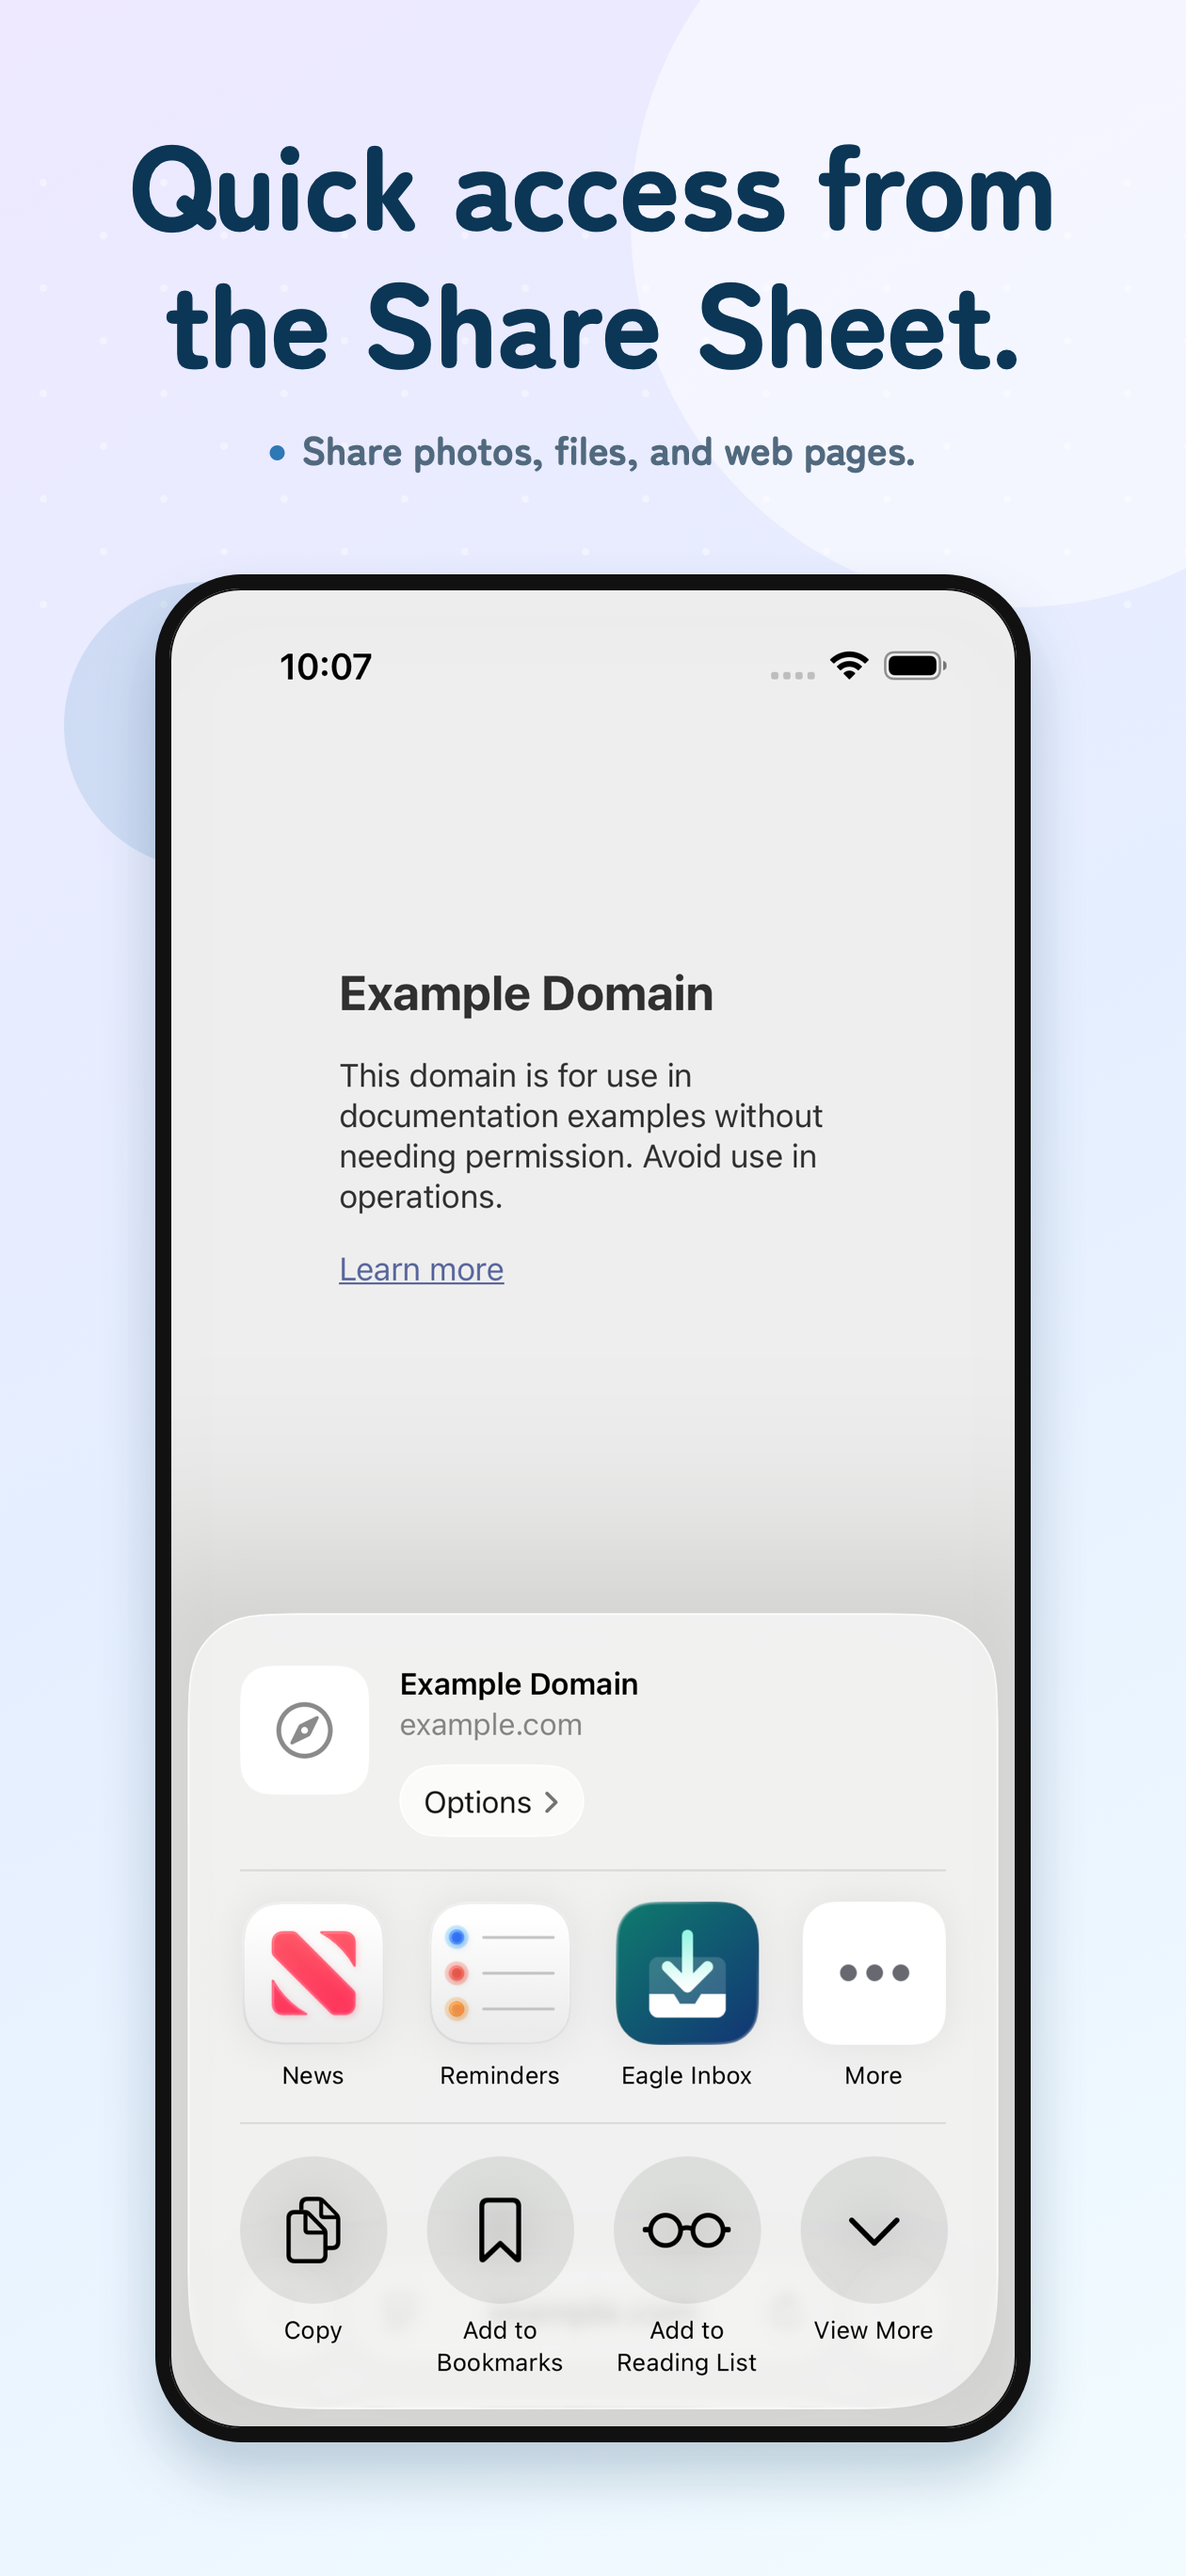
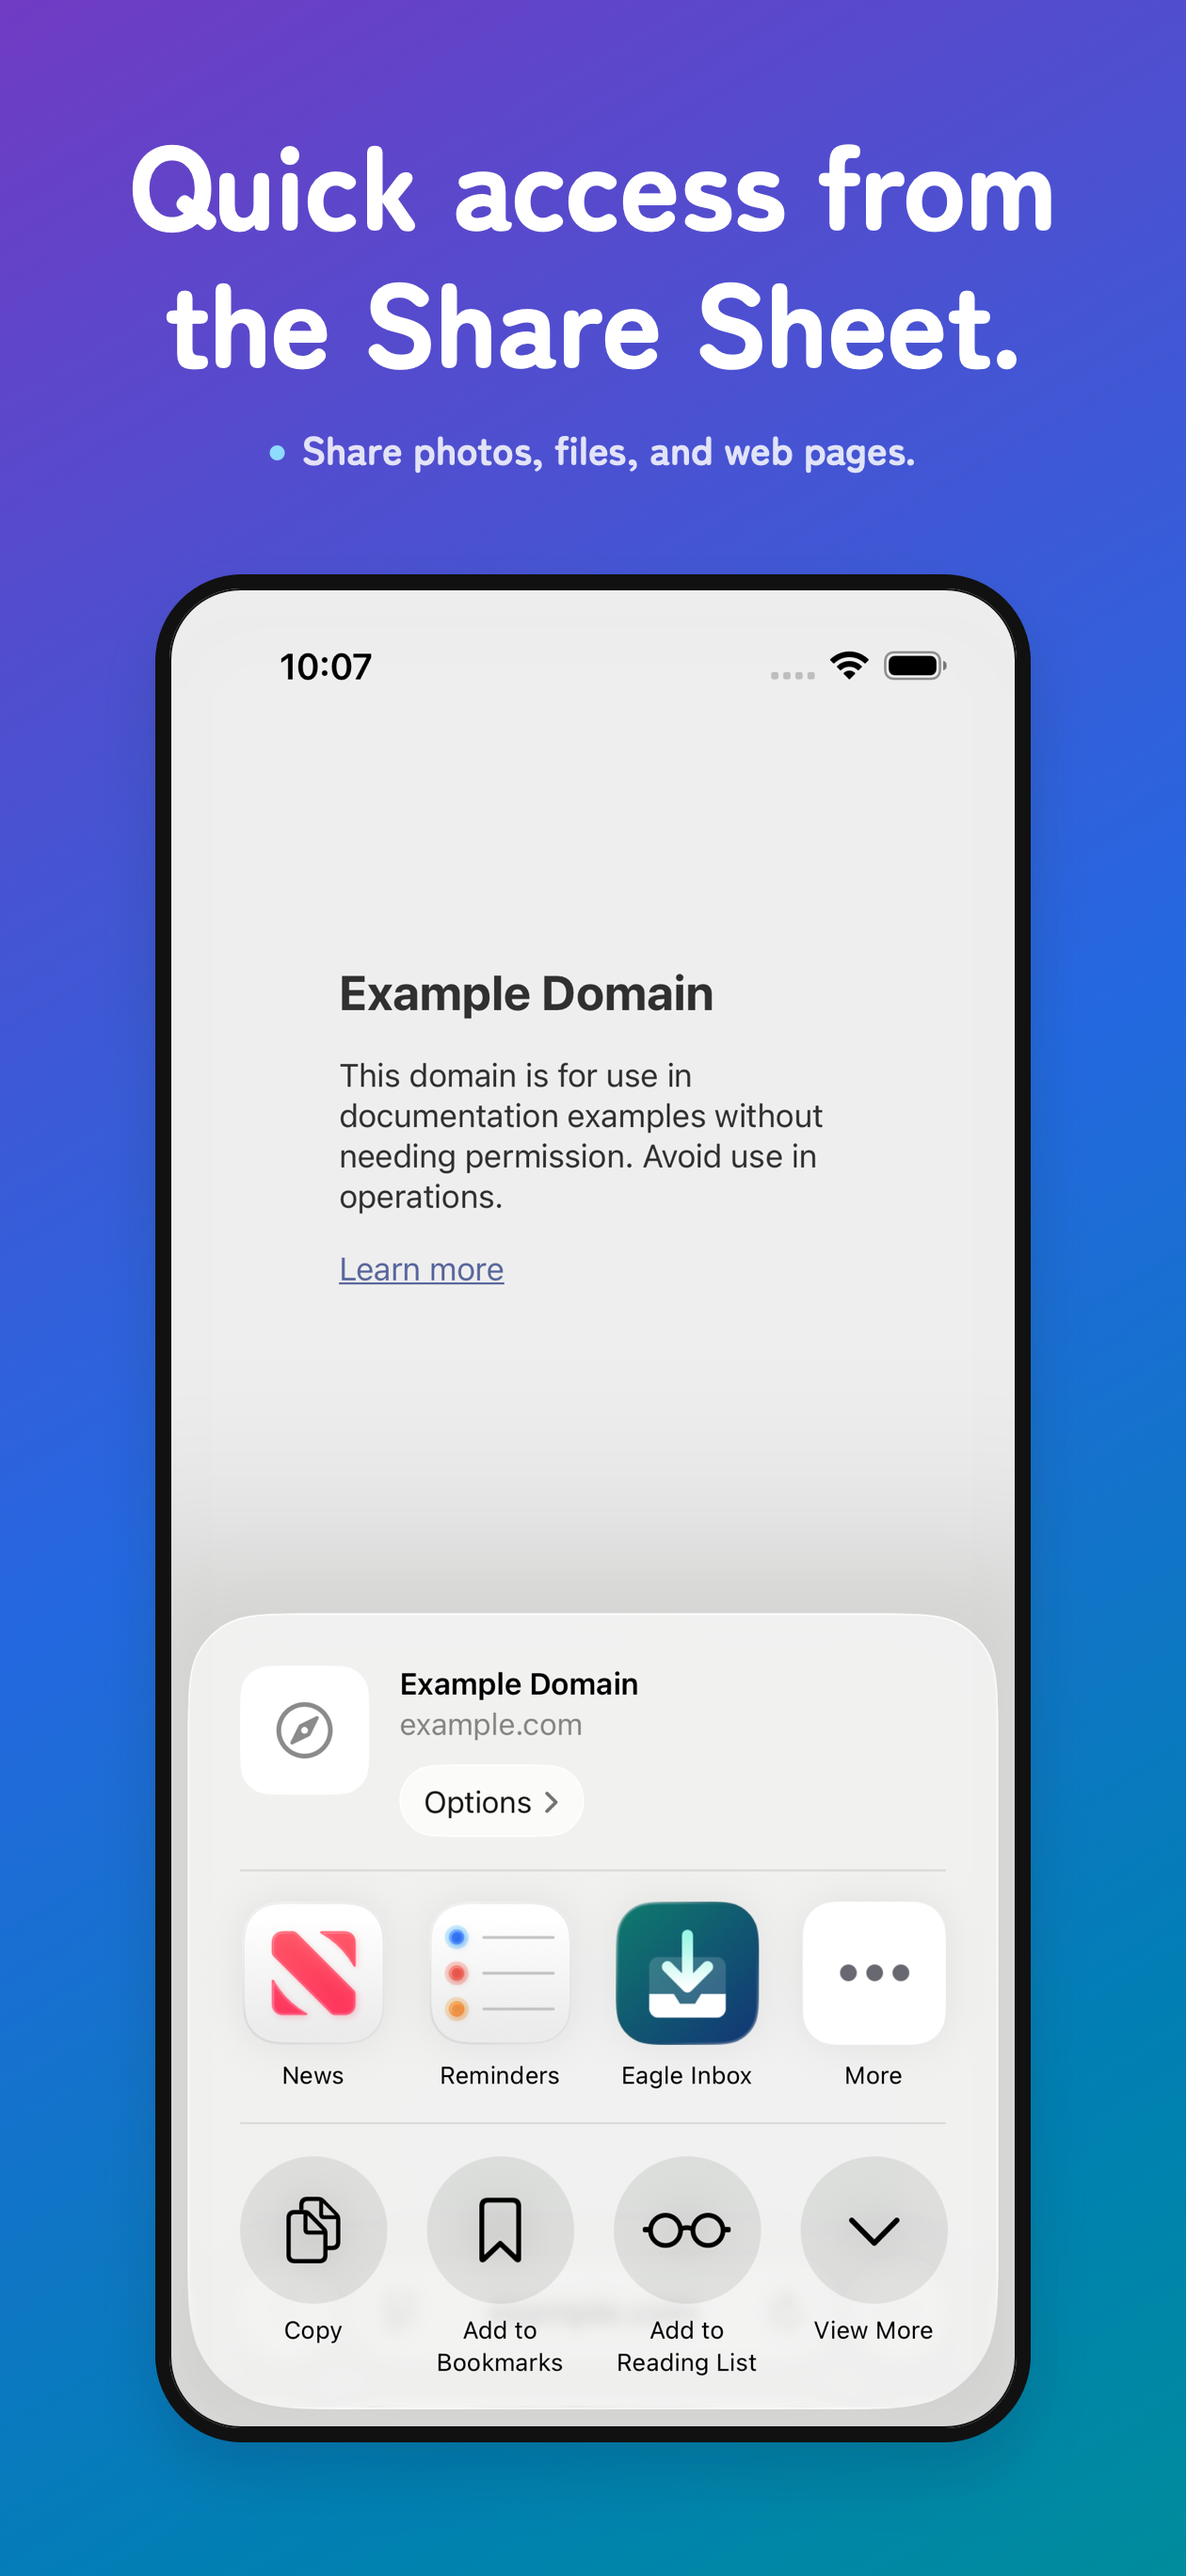
feat: update slide backgrounds and accents for improved visual consistency

diff --git a/Docs/AppStore/Source/render.swift b/Docs/AppStore/Source/render.swift
@@ -190,20 +190,6 @@ private func render(
     let fullRect = NSRect(origin: .zero, size: canvasSize)
     NSGradient(colors: slide.background)?.draw(in: fullRect, angle: 120)
 
-    NSColor.white.withAlphaComponent(0.50).setFill()
-    NSBezierPath(ovalIn: topRect(670, -175, 820, 820)).fill()
-
-    for row in 0..<9 {
-        for column in 0..<20 where (row + column) % 2 == 0 {
-            let dot = topRect(42 + CGFloat(column) * 64, 190 + CGFloat(row) * 56, 8, 8)
-            NSColor.white.withAlphaComponent(0.40).setFill()
-            NSBezierPath(ovalIn: dot).fill()
-        }
-    }
-
-    slide.accent.withAlphaComponent(0.14).setFill()
-    NSBezierPath(ovalIn: topRect(68, 618, 305, 305)).fill()
-
     let isSingleLineHeadline = !slide.headline.contains("\n")
     let headlineTop: CGFloat = isSingleLineHeadline ? 215 : 135
     let subtitleTop: CGFloat = isSingleLineHeadline ? 390 : 445
@@ -212,7 +198,7 @@ private func render(
         slide.headline,
         rect: topRect(55, headlineTop, 1150, isSingleLineHeadline ? 160 : 310),
         font: headlineFont,
-        color: NSColor(hex: 0x0C2844),
+        color: .white,
         lineHeight: 146,
         tracking: -1.8,
         alignment: .center
@@ -240,7 +226,7 @@ private func render(
         slide.subtitle,
         rect: topRect(subtitleGroupX + 34, subtitleTop, subtitleWidth + 4, 70),
         font: subtitleFont,
-        color: NSColor(hex: 0x40566B),
+        color: NSColor.white.withAlphaComponent(0.84),
         tracking: subtitleTracking
     )
 
@@ -306,6 +292,12 @@ let subtitleFont = try loadFont(
     size: 42
 )
 
+private let vividBackground = [
+    NSColor(hex: 0x007A8A),
+    NSColor(hex: 0x1D4ED8),
+    NSColor(hex: 0x5B21B6)
+]
+
 private let slides: [Slide] = [
     Slide(
         headline: "Straight to Eagle.",
@@ -313,8 +305,8 @@ private let slides: [Slide] = [
         source: "Docs/Screenshots/upload-queue-photo-url.png",
         secondarySource: nil,
         output: "Docs/AppStore/Final/01-send-items.png",
-        background: [NSColor(hex: 0xE9FFF9), NSColor(hex: 0xD8EDF7), NSColor(hex: 0xE6E2FF)],
-        accent: NSColor(hex: 0x0F766E)
+        background: vividBackground,
+        accent: NSColor(hex: 0x5EEAD4)
     ),
     Slide(
         headline: "Quick access from\nthe Share Sheet.",
@@ -322,8 +314,8 @@ private let slides: [Slide] = [
         source: "Docs/Screenshots/share-menu.png",
         secondarySource: nil,
         output: "Docs/AppStore/Final/02-share-sheet.png",
-        background: [NSColor(hex: 0xEFFBFF), NSColor(hex: 0xDFEAFF), NSColor(hex: 0xE9E2FF)],
-        accent: NSColor(hex: 0x2563A7)
+        background: vividBackground,
+        accent: NSColor(hex: 0x7DD3FC)
     ),
     Slide(
         headline: "Tags and folders.",
@@ -331,8 +323,8 @@ private let slides: [Slide] = [
         source: "Docs/Screenshots/folders-selected-recent-all.png",
         secondarySource: "Docs/Screenshots/tags-selected.png",
         output: "Docs/AppStore/Final/03-organize-tags.png",
-        background: [NSColor(hex: 0xFFF8EA), NSColor(hex: 0xFDECE8), NSColor(hex: 0xE9F7F2)],
-        accent: NSColor(hex: 0xC15D3C)
+        background: vividBackground,
+        accent: NSColor(hex: 0xFDBA74)
     ),
     Slide(
         headline: "One press.\nStraight to Eagle.",
@@ -340,8 +332,8 @@ private let slides: [Slide] = [
         source: "Docs/Screenshots/action-button-shortcut.png",
         secondarySource: nil,
         output: "Docs/AppStore/Final/04-action-button.png",
-        background: [NSColor(hex: 0xE9FBFF), NSColor(hex: 0xE1EFFF), NSColor(hex: 0xECE6FF)],
-        accent: NSColor(hex: 0x4057A6)
+        background: vividBackground,
+        accent: NSColor(hex: 0xC4B5FD)
     )
 ]
 
